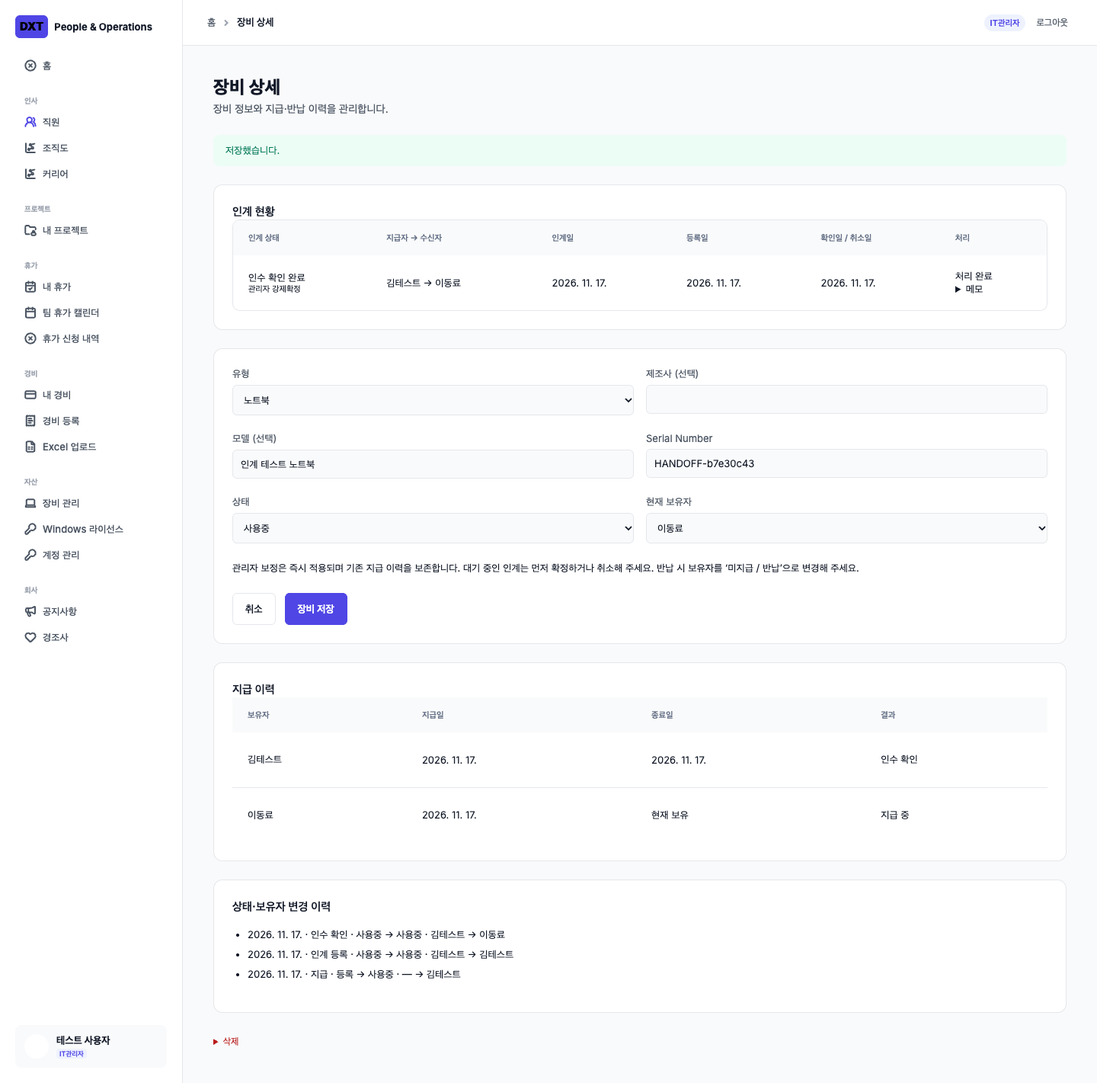
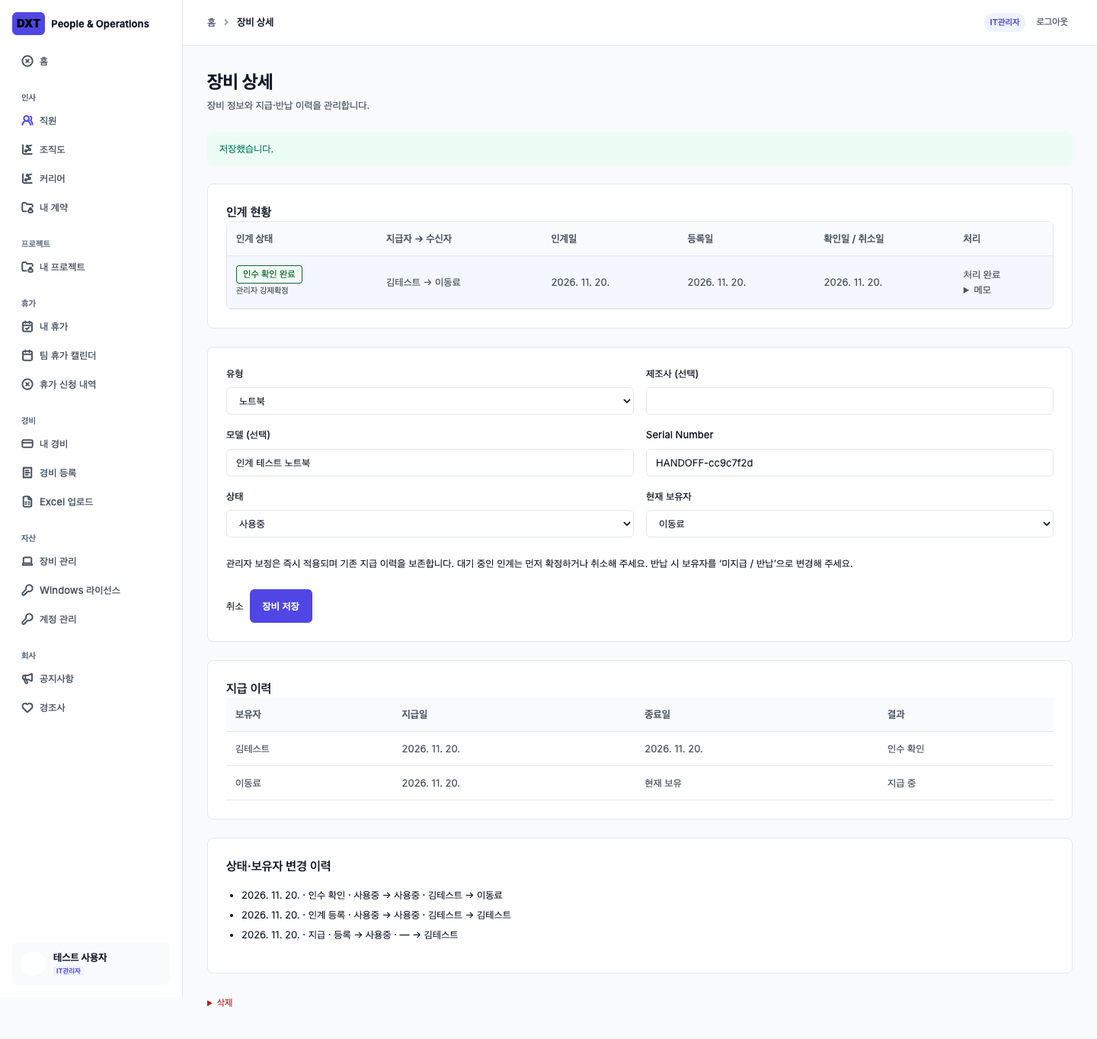
Adopt shared DXT design system for asset transfers

diff --git a/src/components/assets/screens.tsx b/src/components/assets/screens.tsx
@@ -1,3 +1,4 @@
+import { PageHeader, StatusTag, Alert, SummaryCard, Button } from '@/components/ui/primitives';
 import Link from 'next/link';
 import { MyAssets } from './my-assets';
 import { notFound } from 'next/navigation';
@@ -6,15 +7,15 @@ import { ASSET_TYPES,ASSET_STATUSES,ASSIGNMENT_COLUMNS,EVENT_COLUMNS,TRANSFER_CO
 import { employeeClient,type SearchParams } from '@/lib/employees/data';
 import { can,type Principal } from '@/lib/permissions';
 import { AssetForm,VaultForm,RevealSecret,DeleteAsset,ResolveTransfer } from './forms';
-function Heading({title,description,href,action}:{title:string;description:string;href?:string;action?:string}){return <div className="heading-row"><div className="page-heading"><h1>{title}</h1><p>{description}</p></div>{href&&<Link className="button primary" href={href}>{action}</Link>}</div>;}
-function Notice({title,children,warning=false}:{title:string;children:React.ReactNode;warning?:boolean}){return <aside className={`asset-notice${warning?' warning':''}`}><strong>{title}</strong><p>{children}</p></aside>;}
-function Badge({status}:{status:Asset['status']}){return <span className={`asset-badge ${status}`}>{ASSET_STATUSES[status]}</span>;}
+function Heading({title,description,href,action}:{title:string;description:string;href?:string;action?:string}){return <PageHeader title={title} description={description} actions={href&&<Link className="button primary" href={href}>{action}</Link>}/>;}
+function Notice({title,children,warning=false}:{title:string;children:React.ReactNode;warning?:boolean}){return <Alert title={title} tone={warning?'warning':'info'}>{children}</Alert>;}
+function Badge({status}:{status:Asset['status']}){return <StatusTag status={status}>{ASSET_STATUSES[status]}</StatusTag>;}
 const date=(v:string|null)=>v?new Date(v).toLocaleDateString('ko-KR',{timeZone:'Asia/Seoul'}):'—';
 export async function AssetList({query,own=false,id}:{query:SearchParams;own?:boolean;id?:string}){
  if(own)return <MyAssets id={id} query={query}/>;
  const all=await assets(),employees=await assetEmployees(),person=(id:string|null)=>employees.find(e=>e.id===id);
  const q=typeof query.q==='string'?query.q.slice(0,100):'',rows=all.filter(a=>(!query.type||a.type===query.type)&&(!query.status||a.status===query.status)&&`${a.model} ${a.serial_number} ${person(a.current_holder_id)?.name||''}`.toLowerCase().includes(q.toLowerCase()));
- return <><Heading title="장비 관리" description="회사 보유 장비의 현재 보유자와 상태를 관리합니다." href="/admin/assets/new" action="장비 등록"/><div className="asset-summary">{[['사용중',['IN_USE']],['보유',['AVAILABLE']],['수리/분실',['REPAIR','LOST']]].map(([label,statuses])=><section key={String(label)}><span>{label}</span><strong>{all.filter(a=>statuses.includes(a.status)).length}대</strong></section>)}</div><form className="asset-filters"><select aria-label="유형 필터" name="type" defaultValue={typeof query.type==='string'?query.type:''}><option value="">전체 유형</option>{Object.entries(ASSET_TYPES).map(([v,l])=><option key={v} value={v}>{l}</option>)}</select><select aria-label="상태 필터" name="status" defaultValue={typeof query.status==='string'?query.status:''}><option value="">전체 상태</option>{Object.entries(ASSET_STATUSES).map(([v,l])=><option key={v} value={v}>{l}</option>)}</select><input aria-label="모델/SN/보유자 검색" name="q" placeholder="모델/SN/보유자 검색" defaultValue={q}/><button className="button">검색</button></form><div className="asset-table-wrap"><table className="asset-table"><thead><tr>{['유형','모델','S/N','현재 보유자','상태','지급일','관리'].map(h=><th key={h}>{h}</th>)}</tr></thead><tbody>{rows.map(a=><tr key={a.id}><td>{ASSET_TYPES[a.type]}</td><td><strong>{a.model||'—'}</strong></td><td>{a.serial_number}</td><td>{person(a.current_holder_id)?.name||'—'}{person(a.current_holder_id)?.employment_status==='INACTIVE'&&<small className="field-error">퇴사 · 미반납</small>}</td><td><Badge status={a.status}/></td><td>{date(a.assigned_at)}</td><td><Link href={`/admin/assets/${a.id}`}>보기</Link></td></tr>)}</tbody></table>{!rows.length&&<p className="empty-state">조건에 맞는 장비가 없습니다.</p>}</div><Notice title="관리 대상: 노트북 · 데스크탑 · 모니터 · 외장하드">별도 DXT 자산번호 없이 제조사 Serial Number를 장비 식별 기준으로 사용합니다.</Notice></>;
+ return <><Heading title="장비 관리" description="회사 보유 장비의 현재 보유자와 상태를 관리합니다." href="/admin/assets/new" action="장비 등록"/><div className="asset-summary">{[['사용중',['IN_USE']],['보유',['AVAILABLE']],['수리/분실',['REPAIR','LOST']]].map(([label,statuses])=><SummaryCard key={String(label)} label={label} value={all.filter(a=>statuses.includes(a.status)).length} unit="대"/>)}</div><form className="asset-filters"><select aria-label="유형 필터" name="type" defaultValue={typeof query.type==='string'?query.type:''}><option value="">전체 유형</option>{Object.entries(ASSET_TYPES).map(([v,l])=><option key={v} value={v}>{l}</option>)}</select><select aria-label="상태 필터" name="status" defaultValue={typeof query.status==='string'?query.status:''}><option value="">전체 상태</option>{Object.entries(ASSET_STATUSES).map(([v,l])=><option key={v} value={v}>{l}</option>)}</select><input aria-label="모델/SN/보유자 검색" name="q" placeholder="모델/SN/보유자 검색" defaultValue={q}/><Button>검색</Button></form><div className="asset-table-wrap" tabIndex={0} role="region" aria-label="장비 목록"><table className="asset-table"><thead><tr>{['유형','모델','S/N','현재 보유자','상태','지급일','관리'].map(h=><th key={h}>{h}</th>)}</tr></thead><tbody>{rows.map(a=><tr key={a.id}><td>{ASSET_TYPES[a.type]}</td><td><strong>{a.model||'—'}</strong></td><td>{a.serial_number}</td><td>{person(a.current_holder_id)?.name||'—'}{person(a.current_holder_id)?.employment_status==='INACTIVE'&&<small className="field-error">퇴사 · 미반납</small>}</td><td><Badge status={a.status}/></td><td>{date(a.assigned_at)}</td><td><Link href={`/admin/assets/${a.id}`}>보기</Link></td></tr>)}</tbody></table>{!rows.length&&<p className="empty-state">조건에 맞는 장비가 없습니다.</p>}</div><Notice title="관리 대상: 노트북 · 데스크탑 · 모니터 · 외장하드">별도 DXT 자산번호 없이 제조사 Serial Number를 장비 식별 기준으로 사용합니다.</Notice></>;
 }
 export async function AssetEditor({id,query}:{id?:string;query:SearchParams}){
  const asset=id?await assetRecord(id):undefined,employees=await assetEmployees();
@@ -22,7 +23,7 @@ export async function AssetEditor({id,query}:{id?:string;query:SearchParams}){
  const events=id?await db.from('asset_event').select(EVENT_COLUMNS).eq('asset_id',id).order('occurred_at',{ascending:false}):null;
  const transfers=id?await db.from('asset_transfer').select(TRANSFER_COLUMNS).eq('asset_id',id).order('requested_at',{ascending:false}):null;
  if(assignments?.error||events?.error||transfers?.error)throw new Error('장비 이력을 불러오지 못했습니다.');const name=(id:string|null)=>employees.find(e=>e.id===id)?.name||'—';
- return <><Heading title={asset?'장비 상세':'장비 등록'} description="장비 정보와 지급·반납 이력을 관리합니다."/>{query.saved&&<p role="status" className="success-banner">저장했습니다.</p>}{transfers?.data?.length?<section className="surface"><h2>인계 현황</h2><div className="asset-table-wrap asset-transfer-table"><table className="asset-table"><thead><tr>{['인계 상태','지급자 → 수신자','인계일','등록일','확인일 / 취소일','처리'].map(h=><th key={h}>{h}</th>)}</tr></thead><tbody>{(transfers.data as AssetTransfer[]).map(t=><tr key={t.id}><td>{TRANSFER_STATES[t.state]}{t.forced&&<small>관리자 강제확정</small>}</td><td>{t.sender_name} → {t.recipient_name}</td><td>{date(t.handoff_date)}</td><td>{date(t.requested_at)}</td><td>{date(t.confirmed_at||t.cancelled_at)}</td><td>{t.state==='PENDING'?<><ResolveTransfer id={t.id} mode="force"/><ResolveTransfer id={t.id} mode="cancel"/></>:<span>처리 완료</span>}<details><summary>메모</summary><p className="transfer-memo">{t.memo||'—'}</p></details></td></tr>)}</tbody></table></div></section>:asset&&<section className="surface"><h2>인계 현황</h2><p>등록된 인계가 없습니다.</p></section>}<AssetForm key={asset?`${asset.id}:${asset.version}`:'new'} asset={asset} employees={employees} hasPending={transfers?.data?.some(t=>t.state==='PENDING')}/>{asset&&<><section className="surface"><h2>지급 이력</h2><table className="asset-table"><thead><tr><th>보유자</th><th>지급일</th><th>종료일</th><th>결과</th></tr></thead><tbody>{assignments?.data?.map(a=><tr key={a.id}><td>{name(a.employee_id)}</td><td>{date(a.assigned_at)}</td><td>{a.returned_at?date(a.returned_at):'현재 보유'}</td><td>{a.returned_at?(ASSET_EVENTS[a.end_reason]||'종료 (기존 기록)'):transfers?.data?.some(t=>t.assignment_id===a.id&&t.state==='PENDING')?'인계 확인 대기':'지급 중'}</td></tr>)}</tbody></table>{!assignments?.data?.length&&<p>지급 이력이 없습니다.</p>}</section><section className="surface"><h2>상태·보유자 변경 이력</h2><ul className="asset-history">{events?.data?.map(e=><li key={e.id}>{date(e.occurred_at)} · {ASSET_EVENTS[e.event_type]} · {e.previous_status?ASSET_STATUSES[e.previous_status as Asset['status']]:'등록'} → {ASSET_STATUSES[e.status as Asset['status']]} · {name(e.previous_holder_id)} → {name(e.holder_id)}</li>)}</ul></section><DeleteAsset kind="asset" id={asset.id} version={asset.version}/></>}</>;
+ return <><Heading title={asset?'장비 상세':'장비 등록'} description="장비 정보와 지급·반납 이력을 관리합니다."/>{query.saved&&<p role="status" className="success-banner">저장했습니다.</p>}{transfers?.data?.length?<section className="surface"><h2>인계 현황</h2><div className="asset-table-wrap asset-transfer-table" tabIndex={0} role="region" aria-label="장비 인계 이력"><table className="asset-table"><thead><tr>{['인계 상태','지급자 → 수신자','인계일','등록일','확인일 / 취소일','처리'].map(h=><th key={h}>{h}</th>)}</tr></thead><tbody>{(transfers.data as AssetTransfer[]).map(t=><tr key={t.id}><td><StatusTag status={t.state} tone={t.state==='CONFIRMED'?'success':undefined}>{TRANSFER_STATES[t.state]}</StatusTag>{t.forced&&<small>관리자 강제확정</small>}</td><td>{t.sender_name} → {t.recipient_name}</td><td>{date(t.handoff_date)}</td><td>{date(t.requested_at)}</td><td>{date(t.confirmed_at||t.cancelled_at)}</td><td>{t.state==='PENDING'?<><ResolveTransfer id={t.id} mode="force"/><ResolveTransfer id={t.id} mode="cancel"/></>:<span>처리 완료</span>}<details><summary>메모</summary><p className="transfer-memo">{t.memo||'—'}</p></details></td></tr>)}</tbody></table></div></section>:asset&&<section className="surface"><h2>인계 현황</h2><p>등록된 인계가 없습니다.</p></section>}<AssetForm key={asset?`${asset.id}:${asset.version}`:'new'} asset={asset} employees={employees} hasPending={transfers?.data?.some(t=>t.state==='PENDING')}/>{asset&&<><section className="surface"><h2>지급 이력</h2><table className="asset-table"><thead><tr><th>보유자</th><th>지급일</th><th>종료일</th><th>결과</th></tr></thead><tbody>{assignments?.data?.map(a=><tr key={a.id}><td>{name(a.employee_id)}</td><td>{date(a.assigned_at)}</td><td>{a.returned_at?date(a.returned_at):'현재 보유'}</td><td>{a.returned_at?(ASSET_EVENTS[a.end_reason]||'종료 (기존 기록)'):transfers?.data?.some(t=>t.assignment_id===a.id&&t.state==='PENDING')?'인계 확인 대기':'지급 중'}</td></tr>)}</tbody></table>{!assignments?.data?.length&&<p>지급 이력이 없습니다.</p>}</section><section className="surface"><h2>상태·보유자 변경 이력</h2><ul className="asset-history">{events?.data?.map(e=><li key={e.id}>{date(e.occurred_at)} · {ASSET_EVENTS[e.event_type]} · {e.previous_status?ASSET_STATUSES[e.previous_status as Asset['status']]:'등록'} → {ASSET_STATUSES[e.status as Asset['status']]} · {name(e.previous_holder_id)} → {name(e.holder_id)}</li>)}</ul></section><DeleteAsset kind="asset" id={asset.id} version={asset.version}/></>}</>;
 }
 export async function VaultScreen({kind,principal,id,create=false,query}:{kind:VaultKind;principal:Principal;id?:string;create?:boolean;query:SearchParams}){
  const entries=await vaultEntries(kind),entry=id?entries.find(e=>e.id===id):undefined;if(id&&!entry)notFound();const devices=kind==='windows'?await assets():[],employees=kind==='windows'?await assetEmployees():[],path=vaultPath(kind),title=kind==='windows'?'Windows 라이선스':'계정 관리';

diff --git a/src/app/globals.css b/src/app/globals.css
@@ -316,20 +316,3 @@ button:disabled { opacity: .65; cursor: wait; }
 /* Contract documents retain DXT shell tokens, with a paper reading surface and focused signing rail. */
 .contracts-workspace{width:100%;display:flex;flex-direction:column;gap:28px;min-width:0}.contracts-workspace .page-heading{margin:0}.contracts-workspace .page-heading>.text-link{display:inline-block;margin-bottom:18px}.contract-eyebrow{display:block;color:var(--muted);font-size:10px;font-weight:700;letter-spacing:1.5px;margin-bottom:10px}.contract-section-heading{display:flex;align-items:center;justify-content:space-between;gap:16px}.contract-section-heading h2{font-size:18px;margin:0}.contract-section-heading p{font-size:13px;color:var(--muted);margin:8px 0 0;line-height:1.6}.contract-section-heading h2 small{font-size:13px;font-weight:500;color:var(--muted);margin-left:8px}.contract-badge{display:inline-flex;align-items:center;white-space:nowrap;padding:6px 10px;border-radius:6px;font-size:11px;font-weight:600;background:#f3f4f6;color:#636f85}.contract-READY_TO_SEND{background:#eff6ff;color:#1d4ed8}.contract-SENT,.contract-VIEWED{background:#eef2ff;color:var(--brand)}.contract-EMPLOYEE_SIGNED{background:#fffbeb;color:#92400e}.contract-COMPLETED{background:#ecfdf5;color:#047857}.contract-DECLINED{background:#fff1f2;color:#be123c}.contract-summary{padding:26px 30px}.contract-summary-facts{display:grid;grid-template-columns:1.2fr 1.5fr 1fr .6fr;gap:24px;margin:25px 0}.contract-summary-facts dt,.contract-facts dt{font-size:11px;color:var(--muted);margin-bottom:8px}.contract-summary-facts dd,.contract-facts dd{font-size:13px;margin:0;overflow-wrap:anywhere;line-height:1.6}.contract-stepper{display:grid;grid-template-columns:repeat(5,1fr);list-style:none;padding:22px 0 0;margin:0;border-top:1px solid var(--border);gap:12px}.contract-stepper li{display:flex;align-items:center;gap:9px;color:#9ca3af;font-size:12px}.contract-stepper li>span{display:grid;place-items:center;border:1px solid #e5e7eb;border-radius:50%;width:26px;height:26px;font-size:11px;flex-shrink:0}.contract-stepper .current{color:var(--brand)}.contract-stepper .current>span{background:var(--brand);border-color:var(--brand);color:white}.contract-stepper .done{color:#636f85}.contract-stepper .done>span{background:#eef2ff;color:var(--brand);border-color:#e0e7ff}.contract-detail-layout{display:grid;grid-template-columns:minmax(0,1fr) 310px;gap:28px;align-items:start}.contract-document-column{display:flex;flex-direction:column;gap:24px;min-width:0}.contract-paper{width:100%;min-height:920px;background:#fff;border:1px solid #e5e7eb;box-shadow:0 4px 16px #17255406;padding:44px 42px;display:flex;flex-direction:column}.contract-paper-heading{display:flex;align-items:center;justify-content:space-between;padding-bottom:24px;border-bottom:2px solid #1f2937}.contract-paper-heading>span{font-size:20px;font-weight:800;letter-spacing:1px}.contract-paper-heading small{font-size:10px;color:var(--muted)}.contract-paper>h2{text-align:center;font-size:25px;letter-spacing:4px;margin:40px 0 12px}.contract-paper-subtitle{text-align:center;color:var(--muted);font-size:12px;margin:0 0 38px}.contract-paper .contract-document{background:transparent;padding:0;border-radius:0;font-size:14px;line-height:2.1;min-height:360px;flex:1}.contract-paper-signatures{display:grid;grid-template-columns:1fr 1fr;border-top:1px solid #d1d5db;margin-top:40px;padding-top:22px;gap:25px}.contract-paper-signatures>div{display:flex;flex-direction:column;gap:10px;font-size:12px}.contract-paper-signatures small,.contract-paper-signatures span{color:var(--muted);font-size:10px;line-height:1.7}.contract-paper>footer{border-top:1px solid #e5e7eb;margin-top:32px;padding-top:16px;color:#9ca3af;font-size:9px;line-height:1.8;overflow-wrap:anywhere}.contract-signing-sidebar{display:flex;flex-direction:column;gap:20px;position:sticky;top:24px}.contract-signing-sidebar .contract-panel{padding:24px;gap:16px}.contract-signing-sidebar h2{font-size:16px;margin:0}.contract-muted{color:var(--muted);font-size:12px;line-height:1.8;margin:0}.contract-action-stack{display:flex;flex-direction:column;gap:14px}.contract-cta{min-height:44px;justify-content:center;font-size:13px;font-weight:600;padding:12px 16px;line-height:1.5;text-align:center}.contract-control .contract-secondary{background:transparent;color:#6b7280;min-height:36px;justify-content:center;font-size:12px}.contract-sign-control .contract-consent{padding:14px;background:#f9fafb;border:1px solid #e5e7eb;border-radius:8px;font-size:12px;line-height:1.8}.contract-control button:disabled{opacity:.5;cursor:not-allowed}.contract-assurance{background:#f8fafc;border-radius:8px;padding:15px;font-size:11px;line-height:1.8}.contract-assurance strong{font-size:11px}.contract-assurance p{margin:6px 0 0;color:var(--muted)}.contract-facts{display:flex;flex-direction:column;gap:16px;margin:0}.contract-facts>div{padding-bottom:12px;border-bottom:1px solid #f3f4f6}.contract-integrity{font-size:11px;line-height:1.7;color:var(--muted)}.contract-integrity summary{font-weight:500;cursor:pointer;color:var(--ink)}.contract-integrity .contract-hash{font-size:10px}.contract-completion{border:1px solid #a7f3d0;border-radius:10px;background:#f0fdf4;display:flex;gap:18px;padding:24px;align-items:flex-start}.contract-completion h2{font-size:16px;margin:0 0 10px;color:#065f46}.contract-completion p{font-size:12px;color:#39755a;line-height:1.7;margin:4px 0}.contract-complete-icon{display:grid;place-items:center;background:#d1fae5;color:#047857;border-radius:50%;width:32px;height:32px;flex-shrink:0}.contract-audit{font-size:12px}.contract-audit ol{list-style:none;margin:0;padding:0}.contract-audit li{display:grid;grid-template-columns:1fr 1fr 1.5fr;gap:20px;border-top:1px solid var(--border);padding:16px 0;color:var(--muted)}.contract-audit li strong{color:var(--ink)}.contract-audit small{overflow-wrap:anywhere}.contract-list-heading{display:flex;align-items:center;justify-content:space-between;gap:20px}.contract-section-nav{display:flex;gap:28px;border-bottom:1px solid var(--border);flex-wrap:wrap}.contract-section-nav a{padding:0 0 14px;font-size:13px;font-weight:600}.contract-section-nav a:hover{color:var(--brand)}.contract-section-nav span{font-size:11px;background:#eef2ff;color:var(--brand);padding:2px 6px;border-radius:4px;margin-left:8px}.contract-group{display:flex;flex-direction:column;gap:18px;scroll-margin-top:30px}.contract-card-grid{display:grid;grid-template-columns:repeat(2,minmax(0,1fr));gap:20px}.contract-list-card{display:flex;flex-direction:column;gap:12px;padding:26px;transition:border-color .15s,box-shadow .15s}.contract-list-card:hover{border-color:#a5b4fc;box-shadow:0 3px 12px #4f46e508}.contract-list-card .contract-eyebrow{margin:0;font-size:9px}.contract-list-card h3{font-size:19px;margin:10px 0 0}.contract-list-card p,.contract-list-card>small{font-size:12px;color:var(--muted);margin:0}.contract-list-card>.text-link{align-self:flex-end;margin-top:16px;font-size:12px}.contract-group-empty{grid-column:1/-1;border:1px dashed #d1d5db;border-radius:10px;padding:28px;text-align:center;color:var(--muted);font-size:12px;background:#fafbfc}.contract-create-section{display:flex;flex-direction:column;gap:20px;scroll-margin-top:30px}.contract-create-section>.contract-panel{padding:30px}.seal-layout{display:grid;grid-template-columns:minmax(0,1fr) minmax(0,1.25fr);gap:28px;align-items:start}.seal-layout>.contract-panel{padding:28px}.seal-preview{min-height:220px;display:grid;place-items:center;border:1px dashed #d1d5db;border-radius:8px;background:#fafbfc;color:var(--muted);font-size:12px}.seal-preview img,.seal-local-preview img{object-fit:contain}.seal-editor{display:flex;flex-direction:column;gap:20px}.seal-editor .contract-panel{padding:28px}.seal-editor fieldset{border:0;padding:0;margin:0;display:flex;flex-direction:column;gap:20px;min-width:0}.seal-upload{padding:20px;border:1px dashed #a5b4fc;border-radius:8px;background:#fafaff}.seal-upload small{font-size:11px;color:var(--muted)}.seal-local-preview{display:flex;align-items:center;gap:20px;font-size:12px;color:var(--muted)}.seal-stop{font-size:12px;line-height:1.8}.seal-stop h2{font-size:14px}.seal-stop .button{align-self:flex-start}.contract-actor{font-size:10px;overflow-wrap:anywhere}
 @media(max-width:1150px){.contract-detail-layout{grid-template-columns:minmax(0,1fr) 280px;gap:20px}.contract-paper{padding:30px 26px}.contract-summary-facts{gap:16px}.contract-list-heading{align-items:flex-start}}@media(max-width:900px){.contract-detail-layout,.seal-layout{grid-template-columns:1fr}.contract-signing-sidebar{position:static}.contract-summary-facts{grid-template-columns:1fr 1fr}.contract-stepper li{flex-direction:column;align-items:flex-start;font-size:10px}.contract-card-grid{grid-template-columns:1fr}.contract-list-heading{flex-direction:column}.contract-audit li{grid-template-columns:1fr;gap:8px}.contract-paper{min-height:800px}}
-
-.asset-section { width: 100%; min-width: 0; }
-.asset-section .asset-table-wrap { min-height: 0; }
-.asset-section .asset-card + .asset-card { margin-top: 16px; }
-.asset-section > h2 { font-size: 18px; margin-bottom: 14px; }
-.asset-section > h2 > span { color: var(--muted, #636f85); font-size: 14px; margin-left: 6px; }
-.asset-card h3 { font-size: 20px; margin: 14px 0; }
-.transfer-form, .transfer-resolution { margin-top: 16px; }
-.transfer-form summary, .transfer-resolution summary { cursor: pointer; color: var(--brand); font-weight: 600; }
-.transfer-form form, .transfer-resolution form { padding-top: 12px; }
-.transfer-memo { white-space: pre-wrap; overflow-wrap: anywhere; }
-.asset-table td small { display: block; }
-
-.asset-transfer-table { min-height: 0; }
-.asset-section .asset-table { min-width: 640px; }
-.asset-card dl { row-gap: 12px; }
-.asset-card .transfer-memo { margin-top: 12px; }

diff --git a/src/components/assets/forms.tsx b/src/components/assets/forms.tsx
@@ -1,4 +1,5 @@
 'use client';
+import { Button } from '@/components/ui/primitives';
 import { useActionState,useEffect,useId,useState,useTransition } from 'react';
 import Link from 'next/link';
 import { saveAsset,saveVault,revealVault,deleteAssetRecord,requestAssetTransfer,resolveAssetTransfer } from '@/app/actions/assets';
@@ -12,7 +13,7 @@ export function AssetForm({asset,employees,hasPending=false}:{asset?:Asset;emplo
  {(['manufacturer','model','serial_number'] as const).map(key=><Field key={key} label={{manufacturer:'제조사 (선택)',model:'모델 (선택)',serial_number:'Serial Number'}[key]}>{id=><input id={id} name={key} required={key==='serial_number'} maxLength={key==='model'?200:100} defaultValue={asset?.[key]}/>}</Field>)}
  <Field label="상태">{id=><select id={id} name="status" defaultValue={asset?.status||'AVAILABLE'}>{Object.entries(ASSET_STATUSES).map(([v,l])=><option key={v} value={v}>{l}</option>)}</select>}</Field>
  <Field label="현재 보유자">{id=><select id={id} name="current_holder_id" defaultValue={asset?.current_holder_id||''}><option value="">미지급 / 반납</option>{employees.filter(e=>e.employment_status==='ACTIVE'||e.id===asset?.current_holder_id).map(e=><option value={e.id} key={e.id}>{e.name}{e.employment_status==='INACTIVE'?' (퇴사 · 미반납)':''}</option>)}</select>}</Field>
- </div><p className="muted">관리자 보정은 즉시 적용되며 기존 지급 이력을 보존합니다. 대기 중인 인계는 먼저 확정하거나 취소해 주세요. 반납 시 보유자를 ‘미지급 / 반납’으로 변경해 주세요.</p><div className="button-row"><Link className="button" href="/admin/assets">취소</Link><button className="button primary" disabled={pending||hasPending}>장비 저장</button></div></form>;
+ </div><p className="muted">관리자 보정은 즉시 적용되며 기존 지급 이력을 보존합니다. 대기 중인 인계는 먼저 확정하거나 취소해 주세요. 반납 시 보유자를 ‘미지급 / 반납’으로 변경해 주세요.</p><div className="button-row"><Link  href="/admin/assets">취소</Link><Button variant="primary" loading={pending} disabled={hasPending}>장비 저장</Button></div></form>;
 }
 export function VaultForm({kind,entry,assets,employees}:{kind:VaultKind;entry?:VaultEntry;assets:Asset[];employees:Person[]}){
  const [state,action,pending]=useActionState(saveVault.bind(null,kind,entry?.id||null),{});
@@ -20,14 +21,14 @@ export function VaultForm({kind,entry,assets,employees}:{kind:VaultKind;entry?:V
  <Field label={kind==='windows'?'Edition / 제품':'서비스명'}>{id=><input id={id} name="name" required maxLength={200} defaultValue={entry?.name}/>}</Field>
  {kind==='account'?<><Field label="로그인 ID">{id=><input id={id} name="login_id" required maxLength={200} defaultValue={entry?.login_id}/>}</Field><Field label="URL (선택)">{id=><input id={id} name="url" type="url" maxLength={2000} defaultValue={entry?.url}/>}</Field></>:<><Field label="연결 장비 (선택)">{id=><select id={id} name="device_asset_id" defaultValue={entry?.device_asset_id||''}><option value="">미연결</option>{assets.map(a=><option key={a.id} value={a.id}>{a.model||ASSET_TYPES[a.type]} · {a.serial_number}</option>)}</select>}</Field><Field label="사용자 (선택)">{id=><select id={id} name="assigned_employee_id" defaultValue={entry?.assigned_employee_id||''}><option value="">미지정</option>{employees.map(e=><option key={e.id} value={e.id}>{e.name}{e.employment_status==='INACTIVE'?' (퇴사)':''}</option>)}</select>}</Field></>}
  <Field label={`${kind==='windows'?'제품키':'비밀번호'}${entry?' (변경할 때만 입력)':''}`}>{id=><input id={id} name="secret" type="password" autoComplete="new-password" required={!entry} maxLength={kind==='windows'?29:4096}/>}</Field>
- <Field label="메모 (선택)">{id=><textarea id={id} name="memo" maxLength={2000} defaultValue={entry?.memo}/>}</Field></div><p className="muted">비밀값은 암호화하여 저장합니다. 메모나 URL에 비밀번호를 입력하지 마세요.</p><div className="button-row"><Link className="button" href={vaultPath(kind)}>취소</Link><button className="button primary" disabled={pending}>{kind==='windows'?'라이선스 저장':'계정 저장'}</button></div></form>;
+ <Field label="메모 (선택)">{id=><textarea id={id} name="memo" maxLength={2000} defaultValue={entry?.memo}/>}</Field></div><p className="muted">비밀값은 암호화하여 저장합니다. 메모나 URL에 비밀번호를 입력하지 마세요.</p><div className="button-row"><Link  href={vaultPath(kind)}>취소</Link><Button variant="primary" loading={pending}>{kind==='windows'?'라이선스 저장':'계정 저장'}</Button></div></form>;
 }
 export function RevealSecret({kind,id}:{kind:VaultKind;id:string}){
  const [result,setResult]=useState<{value?:string;error?:string}>({}),[pending,start]=useTransition();
  useEffect(()=>{const clear=()=>setResult({});window.addEventListener('blur',clear);window.addEventListener('pagehide',clear);document.addEventListener('visibilitychange',clear);const timer=setTimeout(clear,30000);return()=>{clearTimeout(timer);window.removeEventListener('blur',clear);window.removeEventListener('pagehide',clear);document.removeEventListener('visibilitychange',clear);};},[result.value]);
- return <div className="secret-reveal"><code>{result.value||'••••••••••'}</code><button type="button" className="button" disabled={pending} onClick={()=>result.value?setResult({}):start(async()=>setResult(await revealVault(kind,id)))}>{result.value?'숨기기':'전체 값 보기'}</button>{result.error&&<p className="form-error" role="alert">{result.error}</p>}<small>확인 이력이 기록되며 30초 후 또는 화면을 벗어나면 숨겨집니다.</small></div>;
+ return <div className="secret-reveal"><code>{result.value||'••••••••••'}</code><Button type="button"  loading={pending} onClick={()=>result.value?setResult({}):start(async()=>setResult(await revealVault(kind,id)))}>{result.value?'숨기기':'전체 값 보기'}</Button>{result.error&&<p className="form-error" role="alert">{result.error}</p>}<small>확인 이력이 기록되며 30초 후 또는 화면을 벗어나면 숨겨집니다.</small></div>;
 }
-export function DeleteAsset({kind,id,version}:{kind:'asset'|VaultKind;id:string;version:number}){const [state,action,pending]=useActionState(deleteAssetRecord.bind(null,kind,id),{});return <details className="delete-record"><summary>삭제</summary><form action={action}><input type="hidden" name="version" value={version}/><p>이 기록을 삭제하시겠습니까? 지급 이력이 있는 장비는 삭제할 수 없습니다.</p>{state.error&&<p role="alert" className="form-error">{state.error}</p>}<button className="button danger" disabled={pending}>삭제 확인</button></form></details>;}
+export function DeleteAsset({kind,id,version}:{kind:'asset'|VaultKind;id:string;version:number}){const [state,action,pending]=useActionState(deleteAssetRecord.bind(null,kind,id),{});return <details className="delete-record"><summary>삭제</summary><form action={action}><input type="hidden" name="version" value={version}/><p>이 기록을 삭제하시겠습니까? 지급 이력이 있는 장비는 삭제할 수 없습니다.</p>{state.error&&<p role="alert" className="form-error">{state.error}</p>}<Button variant="danger" loading={pending}>삭제 확인</Button></form></details>;}
 
 export function TransferForm({assetId,assignmentId,requestId,employees,minDate,today}:{assetId:string;assignmentId:string;requestId:string;employees:Person[];minDate:string;today:string}){
  const [state,action,pending]=useActionState(requestAssetTransfer.bind(null,assetId,assignmentId,requestId),{});
@@ -37,7 +38,7 @@ export function TransferForm({assetId,assignmentId,requestId,employees,minDate,t
   <Field label="인계일">{id=><input id={id} type="date" name="handoff_date" min={minDate} max={today} defaultValue={today} required/>}</Field>
   <Field label="인계 메모 (선택)">{id=><textarea id={id} name="memo" maxLength={2000}/>}</Field></div>
   <p className="muted">실제로 전달한 장비를 등록해 주세요. 수신자가 인수 확인하면 현재 보유자가 변경됩니다.</p>
-  <button className="button primary" disabled={pending}>인계 등록</button>
+  <Button variant="primary" loading={pending}>인계 등록</Button>
  </form></details>;
 }
 export function ResolveTransfer({id,mode}:{id:string;mode:'confirm'|'force'|'cancel'}){
@@ -46,6 +47,6 @@ export function ResolveTransfer({id,mode}:{id:string;mode:'confirm'|'force'|'can
  return <details className="transfer-resolution"><summary>{label}</summary><form action={action}>
   <p>{mode==='cancel'?'인계를 취소하고 기존 보유자의 현재 장비로 되돌립니다.':mode==='force'?'수신자 확인을 대신하여 현재 보유자를 변경합니다. 관리자 처리 이력이 남습니다.':'장비를 실제로 받으셨나요? 확인하면 인계일부터 본인의 지급 이력이 시작됩니다.'}</p>
   {state.error&&<p role="alert" className="form-error">{state.error}</p>}
-  <button className={`button ${mode==='cancel'?'danger':'primary'}`} disabled={pending}>{label} 완료</button>
+  <Button variant={mode==='cancel'?'danger':'primary'} loading={pending}>{label} 완료</Button>
  </form></details>;
 }

diff --git a/src/components/assets/my-assets.tsx b/src/components/assets/my-assets.tsx
@@ -1,3 +1,4 @@
+import { PageHeader, StatusTag, Alert, DataTable } from '@/components/ui/primitives';
 import { randomUUID } from 'node:crypto';
 import { myAssetRecords,transferRecipients } from '@/lib/assets/data';
 import { ASSET_TYPES,ASSET_STATUSES,assignmentResult,type AssetTransfer } from '@/lib/assets/types';
@@ -6,7 +7,7 @@ import { TransferForm,ResolveTransfer } from './forms';
 const date=(value:string)=>new Date(value).toLocaleDateString('ko-KR',{timeZone:'Asia/Seoul'});
 const isoDate=(value:string)=>new Date(value).toLocaleDateString('en-CA',{timeZone:'Asia/Seoul'});
 function TransferCard({transfer:t,incoming=false}:{transfer:AssetTransfer;incoming?:boolean}){
- return <article className="asset-card"><div className="heading-row"><span className="asset-type">{ASSET_TYPES[t.asset_type]}</span><span className="asset-badge REPAIR">{incoming?'인수 확인 필요':'인계 완료 / 상대 확인 대기'}</span></div>
+ return <article className="asset-card"><div className="heading-row"><span className="asset-type">{ASSET_TYPES[t.asset_type]}</span><StatusTag status="PENDING">{incoming?'인수 확인 필요':'인계 완료 / 상대 확인 대기'}</StatusTag></div>
  <h3>{t.asset_model||ASSET_TYPES[t.asset_type]}</h3><dl><div><dt>Serial Number</dt><dd>{t.serial_number}</dd></div><div><dt>{incoming?'지급자':'수신자'}</dt><dd>{incoming?t.sender_name:t.recipient_name}</dd></div><div><dt>인계일</dt><dd>{date(t.handoff_date)}</dd></div><div><dt>등록일</dt><dd>{date(t.requested_at)}</dd></div></dl>
  {t.memo&&<p className="transfer-memo">{t.memo}</p>}{incoming&&<ResolveTransfer id={t.id} mode="confirm"/>}</article>;
 }
@@ -18,12 +19,12 @@ export async function MyAssets({id,query}:{id?:string;query:SearchParams}){
  const current=assets.filter(a=>!outgoing.some(t=>t.asset_id===a.id));
  const past=assignments.filter(a=>a.state==='RETURNED');
  const today=isoDate(new Date().toISOString());
- return <><div className="page-heading"><h1>내 장비</h1><p>현재 보유 장비와 인계·인수 상태, 나의 지급 이력을 확인합니다.</p></div>
+ return <><PageHeader title="내 장비" description="현재 보유 장비와 인계·인수 상태, 나의 지급 이력을 확인합니다."/>
  {query.saved&&<p role="status" className="success-banner">처리했습니다.</p>}
  <section aria-labelledby="current-assets" className="asset-section"><h2 id="current-assets">현재 장비 <span>{current.length}</span></h2>
- {current.length?current.map(a=>{const assignment=assignments.find(h=>h.asset_id===a.id&&h.state==='ACTIVE');return <article className="asset-card" key={a.id}><div className="heading-row"><span className="asset-type">{ASSET_TYPES[a.type]}</span><span className={`asset-badge ${a.status}`}>{ASSET_STATUSES[a.status]}</span></div><h3>{a.model||ASSET_TYPES[a.type]}</h3><dl><div><dt>Serial Number</dt><dd>{a.serial_number}</dd></div><div><dt>지급일</dt><dd>{a.assigned_at?date(a.assigned_at):'—'}</dd></div></dl>{assignment&&<TransferForm assetId={a.id} assignmentId={assignment.id} requestId={randomUUID()} employees={people.filter(e=>e.id!==me)} minDate={isoDate(assignment.assigned_at)} today={today}/>}</article>;}):<div className="surface empty-state"><h3>지급된 장비가 없습니다</h3><p>인계 중인 장비는 아래 영역에서 확인할 수 있습니다.</p></div>}</section>
+ {current.length?current.map(a=>{const assignment=assignments.find(h=>h.asset_id===a.id&&h.state==='ACTIVE');return <article className="asset-card" key={a.id}><div className="heading-row"><span className="asset-type">{ASSET_TYPES[a.type]}</span><StatusTag status={a.status}>{ASSET_STATUSES[a.status]}</StatusTag></div><h3>{a.model||ASSET_TYPES[a.type]}</h3><dl><div><dt>Serial Number</dt><dd>{a.serial_number}</dd></div><div><dt>지급일</dt><dd>{a.assigned_at?date(a.assigned_at):'—'}</dd></div></dl>{assignment&&<TransferForm assetId={a.id} assignmentId={assignment.id} requestId={randomUUID()} employees={people.filter(e=>e.id!==me)} minDate={isoDate(assignment.assigned_at)} today={today}/>}</article>;}):<div className="surface empty-state"><h3>지급된 장비가 없습니다</h3><p>인계 중인 장비는 아래 영역에서 확인할 수 있습니다.</p></div>}</section>
  <section aria-labelledby="outgoing-assets" className="asset-section"><h2 id="outgoing-assets">인계 확인 대기 중 <span>{outgoing.length}</span></h2>{outgoing.length?outgoing.map(t=><TransferCard key={t.id} transfer={t}/>):<p className="surface muted">상대방의 확인을 기다리는 장비가 없습니다.</p>}</section>
  <section aria-labelledby="incoming-assets" className="asset-section"><h2 id="incoming-assets">받을 장비 <span>{incoming.length}</span></h2>{incoming.length?incoming.map(t=><TransferCard key={t.id} transfer={t} incoming/>):<p className="surface muted">인수 확인할 장비가 없습니다.</p>}</section>
- <section aria-labelledby="past-assets" className="asset-section"><h2 id="past-assets">과거 장비 <span>{past.length}</span></h2>{past.length?<div className="asset-table-wrap"><table className="asset-table"><thead><tr>{['유형 / 모델','S/N','지급 시작','지급 종료','결과'].map(h=><th key={h}>{h}</th>)}</tr></thead><tbody>{past.map(h=><tr key={h.id}><td>{ASSET_TYPES[h.asset_type]}<br/><strong>{h.asset_model||'—'}</strong></td><td>{h.serial_number}</td><td>{date(h.assigned_at)}</td><td>{date(h.returned_at!)}</td><td>{assignmentResult(h.end_reason)}</td></tr>)}</tbody></table></div>:<p className="surface muted">이전 지급 이력이 없습니다.</p>}</section>
- <aside className="asset-notice"><strong>장비 정보가 실제와 다르면 IT 관리자에게 알려주세요.</strong><p>본인의 지급 이력과 직접 인계·인수한 기록만 볼 수 있습니다. 인계 취소·보정은 IT 관리자에게 요청해 주세요.</p></aside></>;
+ <section aria-labelledby="past-assets" className="asset-section"><h2 id="past-assets">과거 장비 <span>{past.length}</span></h2>{past.length?<DataTable label="나의 과거 지급 이력" head={['유형 / 모델','S/N','지급 시작','지급 종료','결과']}>{past.map(h=><tr key={h.id}><td>{ASSET_TYPES[h.asset_type]}<br/><strong>{h.asset_model||'—'}</strong></td><td>{h.serial_number}</td><td>{date(h.assigned_at)}</td><td>{date(h.returned_at!)}</td><td>{assignmentResult(h.end_reason)}</td></tr>)}</DataTable>:<p className="surface muted">이전 지급 이력이 없습니다.</p>}</section>
+ <Alert title="장비 정보가 실제와 다르면 IT 관리자에게 알려주세요.">본인의 지급 이력과 직접 인계·인수한 기록만 볼 수 있습니다. 인계 취소·보정은 IT 관리자에게 요청해 주세요.</Alert></>;
 }

diff --git a/src/app/design-system.css b/src/app/design-system.css
@@ -152,3 +152,22 @@ button,input,select,textarea {font:inherit}
 .expense-list-table table:not(:has(th:nth-child(9))) :is(th,td):nth-child(4) {text-align:right;font-variant-numeric:tabular-nums}
 .app-shell .heading-row a.button[href^="/api/expenses/"] {background:var(--surface);color:var(--text-primary);border-color:var(--border);min-height:var(--control-default)}
 .app-shell .heading-row a.button[href^="/api/expenses/"]:hover {color:var(--primary);border-color:var(--primary)}
+
+/* Asset transfer layout; presentation uses shared DXT tokens. */
+
+.asset-section { width: 100%; min-width: 0; }
+.asset-section .asset-table-wrap { min-height: 0; }
+.asset-section .asset-card + .asset-card { margin-top: var(--space-4); }
+.asset-section > h2 { font-size: var(--font-section); margin-bottom: var(--space-4); }
+.asset-section > h2 > span { color: var(--muted); font-size: var(--font-caption); margin-left: 6px; }
+.asset-card h3 { font-size: var(--font-section); margin: var(--space-4) 0; }
+.transfer-form, .transfer-resolution { margin-top: var(--space-4); }
+.transfer-form summary, .transfer-resolution summary { cursor: pointer; color: var(--brand); font-weight: 600; }
+.transfer-form form, .transfer-resolution form { padding-top: var(--space-3); }
+.transfer-memo { white-space: pre-wrap; overflow-wrap: anywhere; }
+.asset-table td small { display: block; }
+
+.asset-transfer-table { min-height: 0; }
+.asset-section .asset-table { min-width: 640px; }
+.asset-card dl { row-gap: var(--space-3); }
+.asset-card .transfer-memo { margin-top: var(--space-3); }

diff --git a/docs/ISSUE_19_DELIVERY.md b/docs/ISSUE_19_DELIVERY.md
@@ -106,3 +106,14 @@ copies. Do not rewrite existing applied contract/seal migrations.
 
 Full local results and remote CI links are recorded in the PR, with the updated head
 SHA. Synthetic fixture checks remain distinct from hosted staging acceptance.
+
+## DXT Design System rebase verification (2026-11-20)
+
+Rebased onto main `521ea36` (#25). Adopted shared PageHeader, Button loading states,
+StatusTag, SummaryCard, Alert and keyboard-scrollable history tables. Transfer layout
+uses shared spacing/type tokens. Asset authorization, actions, RPCs and migration
+are unchanged; contract/seal code and tests are unchanged from main.
+
+Lint/build/typecheck pass; 74 unit/DB and 59 browser tests pass on synthetic data.
+Updated issue19 screenshots cover incoming/outgoing/history/admin/mobile.
+Hosted staging and multi-connection race checks remain separate acceptance steps.
